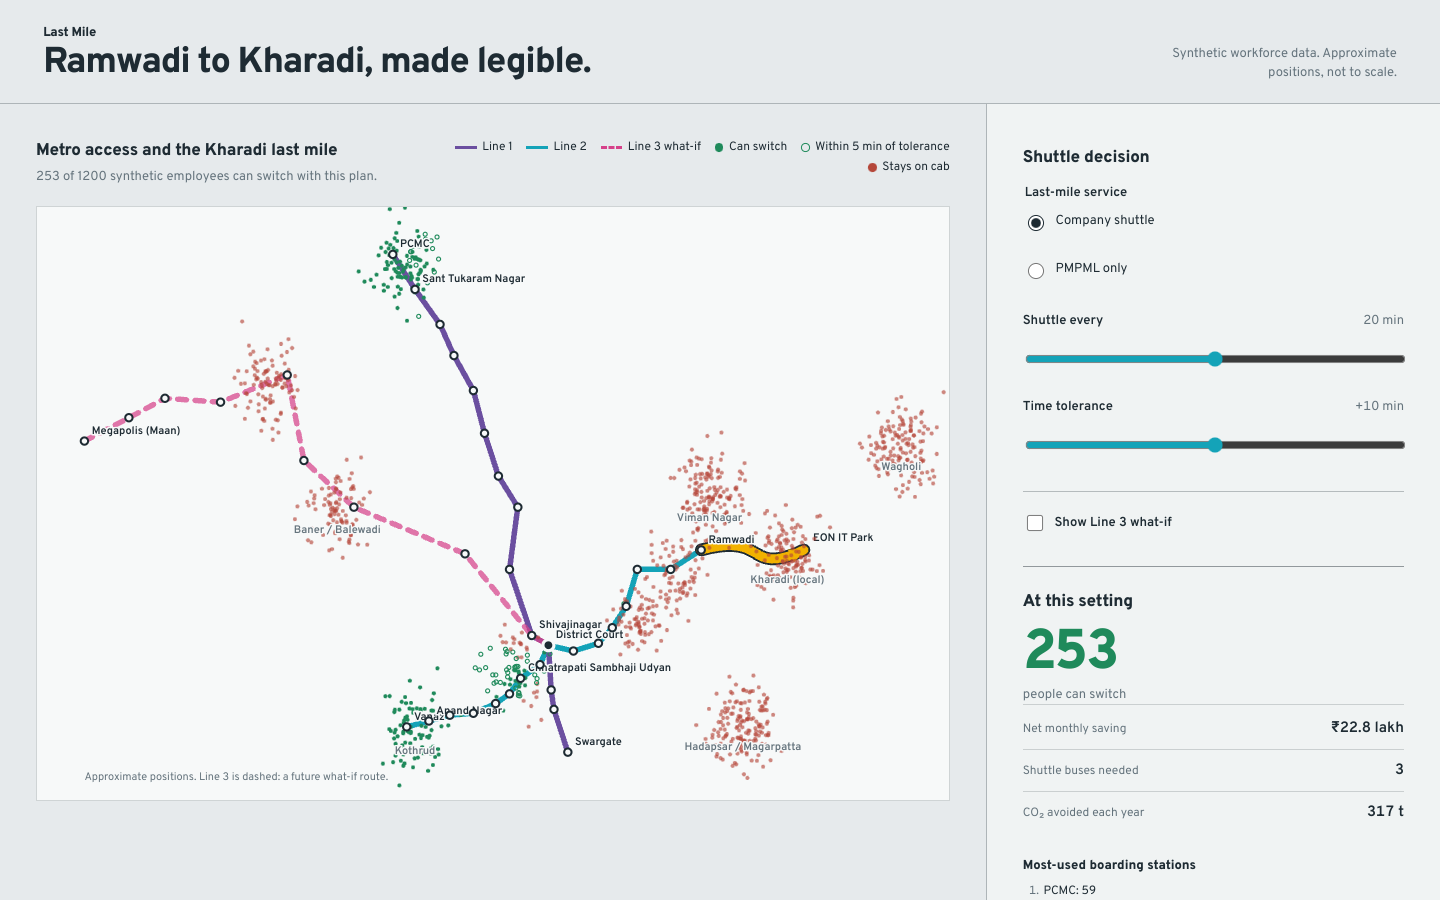
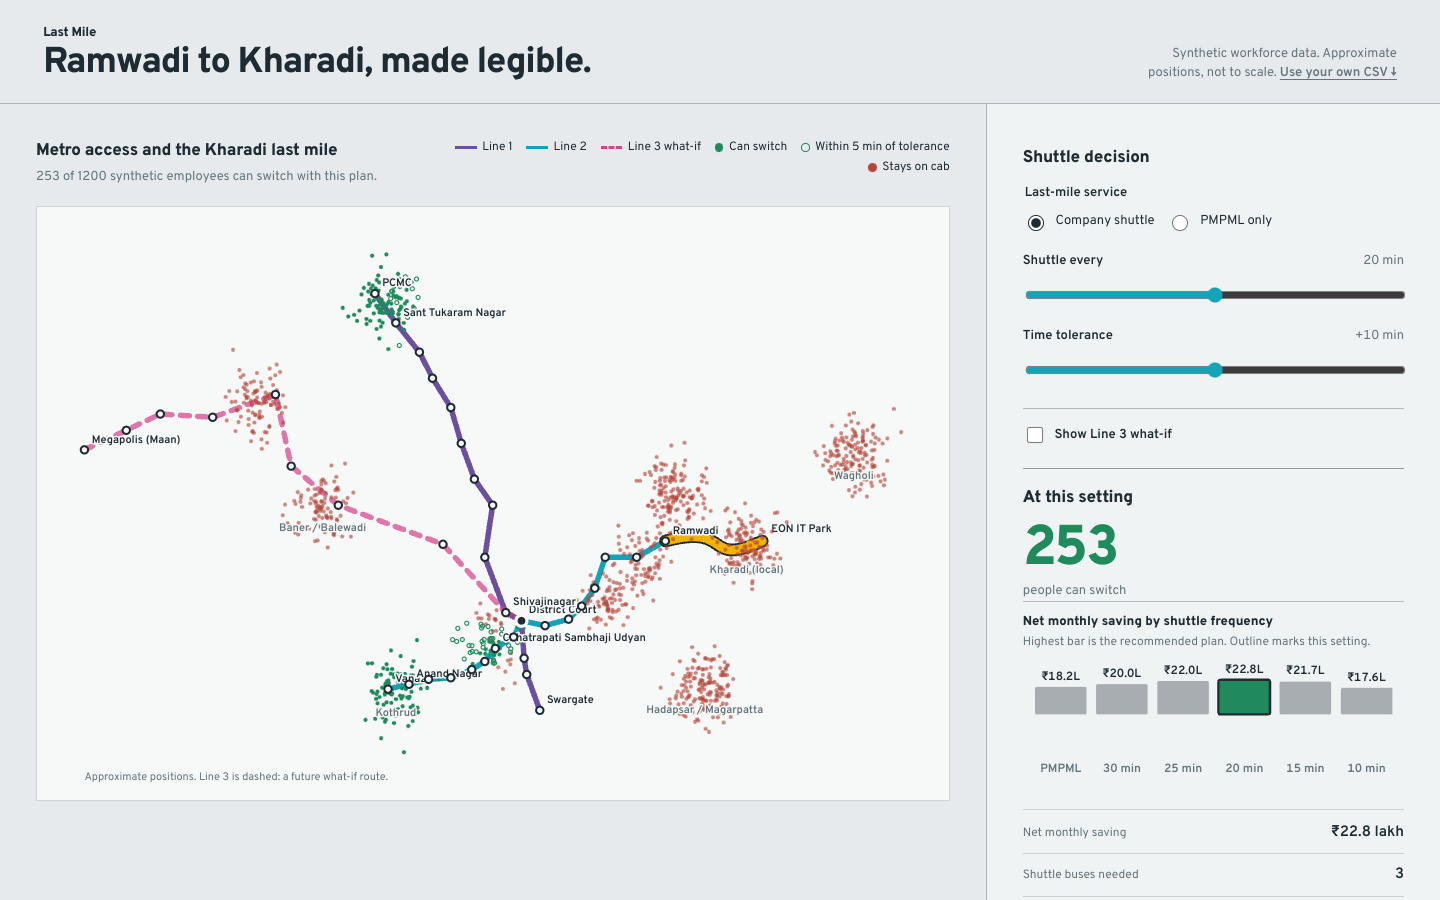
Evaluation-ready: README for evaluators, npm scripts, MIT licence, fresh screenshot; build-process files moved to docs/process
No application code changed.

Claude-Session: https://claude.ai/code/session_01H1RB84YU63TM1p3fbd7dL7

diff --git a/README.md b/README.md
@@ -1,23 +1,125 @@
 # Last Mile
 
-Should your company run a shuttle from Ramwadi Metro to Kharadi — and who would actually switch from cabs?
+**Should a Kharadi IT company run a shuttle from Ramwadi Metro, how often, and who would actually leave their cab?**
 
-A planning tool for transport teams in Pune. Built with Codex for the DevDay Exchange Community Metro Hackathon,
-Pune, 24 Oct 2026 — started the morning of the event (with the host's go-ahead) and refined on the moving Metro sprint.
-Commit history shows the timeline.
+Last Mile is a planning tool for a company's transport team. It models every employee's door-to-door commute by cab and
+by Pune Metro + a last-mile shuttle, finds the shuttle frequency that saves the most, and writes the recommendation for finance.
+
+**Live:** https://apoorvgpt9.github.io/codex-devday-24Oct/ · **Track:** Urban Mobility ·
+**Built for:** DevDay Exchange Community Metro Hackathon, Pune, 24 Oct 2026, with OpenAI Codex
 
 ![Last Mile at the recommended 20-minute shuttle](docs/screenshot.png)
 
-**What it finds (synthetic 1,200-person company at EON IT Park):** the public PMPML feeder fills up at 150 riders;
-a company shuttle from Ramwadi every **20 minutes** is the optimum — 253 people off cabs, 3 buses, ₹22.8 lakh/month net,
-317 t CO₂/year. More frequent shuttles add riders but cost more than they save. When Line 3 opens end to end: 461 people.
+## The problem
 
-**Live:** https://apoorvgpt9.github.io/codex-devday-24Oct/
+Pune Metro ridership is below projections, and Maha Metro names the last mile as the reason: stations sit 3–6 km from
+where people work. Kharadi's IT parks are the clearest case. The nearest working station is Ramwadi, the public PMPML
+feeder runs about every 30 minutes, and the Metro extension toward Kharadi only began preparatory work in September 2026.
+Companies keep paying for door-to-door cabs because nobody can show them, employee by employee, who could switch.
 
-**Run it:** `python3 -m http.server 8000` → open http://localhost:8000. Works offline.
-**Test it:** `node --test tests/`
+## What it finds
 
-Data: stations and the PMPML feeder route are real (approximate positions). Employees, costs and speeds are synthetic
-assumptions, all listed in `data/assumptions.json` and on screen.
+For a synthetic 1,200-person company at EON IT Park:
 
-- Spec: `PLAN.md` · Agent rules: `AGENTS.md` · Design brief: `docs/design-brief.md` · Demo: `docs/demo-script.md`
+| Option | People who can switch | Buses | Net saving / month |
+|---|---|---|---|
+| PMPML feeder only | 150 (bus full at peak) | 0 | ₹18.2 lakh |
+| Company shuttle every 30 min | 200 | 2 | ₹20.0 lakh |
+| **Company shuttle every 20 min (recommended)** | **253** | **3** | **₹22.8 lakh** |
+| Company shuttle every 15 min | 271 | 4 | ₹21.7 lakh |
+| Company shuttle every 10 min | 284 | 6 | ₹17.6 lakh |
+| 15 min, if Line 3 (Hinjewadi) runs end to end | 461 | 5 | ₹48.3 lakh |
+
+- People who live near the Metro keep their cab (their ride is already short); long commuters from Kothrud and PCMC switch.
+- More frequent shuttles add riders but cost more than they save; the tool finds the 20-minute optimum itself.
+- The recommendation holds in 14 of 18 robustness tests (each uncertain input moved ±25%). The input that matters most
+  is peak-hour cab speed, so that is what to measure before contracting buses.
+
+## What you can do in the app
+
+| Capability | How |
+|---|---|
+| See who can switch | 1,200 employee dots on a Metro map, green = can switch, red = stays on cab |
+| Compare PMPML vs a company shuttle | **Shuttle decision → Company shuttle / PMPML only** |
+| Find the best frequency | Drag **Shuttle every** (10–30 min); the bar chart marks the recommended option |
+| Change what employees will accept | Drag **Time tolerance** (+0 to +20 min) |
+| Plan for Line 3 | Tick **Show Line 3 what-if** |
+| Get a finance memo | **Transport memo → Copy memo** |
+| Test how sure the answer is | **Run robustness test** |
+| Explain one person's verdict | Click any dot: cab vs Metro, leg by leg |
+| Use your own workforce | **Use your own CSV ↓** (`lat,lng[,shiftStart]`); read in the browser, never uploaded |
+| Check every number | **Model assumptions** table: value, source and confidence for all 25 inputs |
+
+## Run and test
+
+No install, no dependencies, no build step. Works offline.
+
+```bash
+npm start            # or: python3 -m http.server 8000  → open http://localhost:8000
+npm test             # 17 unit tests (node --test, Node 18+)
+npm run summary      # prints the headline numbers for each scenario
+```
+
+## How it works
+
+```
+data/*.json ──► src/main.js ──► src/model/ (pure, no DOM) ──► src/ui/ (SVG map, chart, memo, tables)
+                      ▲                                              │
+                      └───────────── control change ◄────────────────┘
+```
+
+For each employee the model (`src/model/commute.js`) compares:
+
+1. **Cab:** road distance (straight line × 1.35) at 16 km/h peak speed, ₹18/km, round trip.
+2. **Metro:** walk (≤1 km) or auto (≤5 km) to the nearest open station, ride to Ramwadi (2.2 min/stop, 6 min per line
+   change, `network.js` route search), then shuttle wait (half the headway) + 6.5 km ride.
+3. **Verdict:** can switch if Metro ≤ cab + tolerance. PMPML mode caps riders at the feeder's spare seats per shift.
+4. **Fleet and money:** buses = max(what the headway needs, what the busiest shift needs). Net saving = cab spend avoided
+   − bus contracts − reimbursed Metro, auto and PMPML fares.
+5. **Recommendation:** the option with the highest net saving across PMPML and 30/25/20/15/10-minute shuttles.
+6. **Robustness** (`sensitivity.js`): reruns step 5 with each low-confidence input at ×0.75 and ×1.25.
+
+Every rate, speed and cost lives in [`data/assumptions.json`](data/assumptions.json) with its source and confidence, and is
+shown in the app. Nothing is hard-coded in the calculation.
+
+## Data: what is real
+
+- **Real:** Pune Metro Lines 1 and 2 and the Line 3 stations (positions approximate, ±300 m); EON IT Park; the PMPML
+  Ramwadi feeder route.
+- **Synthetic, labelled as such everywhere:** the 1,200 employees (`scripts/gen-employees.mjs`, seeded), their home
+  clusters, and the cost and speed assumptions.
+- Line 3 is a toggle, not a default, because its full opening is unconfirmed.
+
+## Project structure
+
+```
+index.html            single page
+src/main.js           loads data, holds state, wires model to UI
+src/model/            commute.js, network.js, geo.js, sensitivity.js, workforce.js — pure functions
+src/ui/               map.js, controls.js, results.js, frequency-chart.js, memo.js, robustness.js, assumptions.js, workforce-import.js
+styles/app.css        design tokens, dark mode, reduced motion, 375 px layout
+data/                 stations, places, employees, assumptions, sample CSV
+assets/fonts/         Overpass and Mukta (Marathi), vendored — no external requests
+tests/                node:test unit tests
+scripts/              data generators and the summary script
+docs/                 design brief, demo script; docs/process/ holds the build plan, Codex prompts and review log
+```
+
+## How it was built
+
+Built with OpenAI Codex, orchestrated milestone by milestone: [`AGENTS.md`](AGENTS.md) holds the rules Codex followed
+(zero dependencies, offline, every number from the assumptions file, model separate from UI). The plan, the exact
+prompts and the per-milestone review log are in [`docs/process/`](docs/process/). Every milestone was rendered and
+clicked through in a headless browser before the next one started. Work began the morning of the event with the host's
+go-ahead and continued on the Metro sprint; the commit history shows the timeline.
+
+## Limits
+
+- Illustrative numbers until real inputs replace the low-confidence assumptions.
+- One office (EON IT Park) and one hub (Ramwadi).
+- No live traffic or timetable data, by design (offline, explainable).
+- The boarding station is the nearest one, not necessarily the fastest; this slightly under-counts switchers.
+
+## Licence
+
+MIT — see [LICENSE](LICENSE).

diff --git a/AGENTS.md b/AGENTS.md
@@ -1,13 +1,13 @@
 # AGENTS.md — rules for Codex in this repo
 
-Read this file, then `PLAN.md`, then `PRODUCT.md` and `docs/design-brief.md` before writing code.
+Read this file, then `docs/process/PLAN.md`, then `PRODUCT.md` and `docs/design-brief.md` before writing code.
 `DESIGN.md` does not exist yet by design — `docs/design-brief.md` is the visual source of truth until M5,
 when `/impeccable document` generates `DESIGN.md` from the built UI. Do not create `DESIGN.md` before M5.
 
 ## What we are building
 **Last Mile** — a planning tool for a company's transport/admin team in Pune. It shows which employees
 can realistically commute by Pune Metro + a company shuttle from Ramwadi station to Kharadi IT parks,
-how often that shuttle should run, and what it saves (₹ cab spend, CO₂, minutes). Full spec: `PLAN.md`.
+how often that shuttle should run, and what it saves (₹ cab spend, CO₂, minutes). Full spec: `docs/process/PLAN.md`.
 
 ## Hard constraints (non-negotiable)
 1. **Zero dependencies, zero build step.** Plain `index.html` + ES modules in `src/` + CSS in `styles/`.
@@ -25,16 +25,16 @@ how often that shuttle should run, and what it saves (₹ cab spend, CO₂, minu
    Do not install or invent a second design system. Do not use any pattern listed under "Do not" in the brief.
 
 ## Working rhythm
-- Work milestone by milestone in the order in `PLAN.md`. Do not start a milestone before the previous
+- Work milestone by milestone in the order in `docs/process/PLAN.md`. Do not start a milestone before the previous
   one's acceptance checks pass.
 - **Commit and push after every milestone** with message `M<n>: <what now works>`.
   If `git push` fails (no signal), keep working and push at the next opportunity — never block on it.
-- Append one line per milestone to `PROGRESS.md`: time, milestone, what was verified, known gaps.
-- If something in `PLAN.md` is ambiguous, pick the simplest option that keeps the demo working,
-  note the choice in `PROGRESS.md`, and continue. Do not stop to ask.
-- Never edit `PLAN.md`, `AGENTS.md`, `docs/` or `prompts/` — those are owned by the human/orchestrator.
+- Append one line per milestone to `docs/process/PROGRESS.md`: time, milestone, what was verified, known gaps.
+- If something in `docs/process/PLAN.md` is ambiguous, pick the simplest option that keeps the demo working,
+  note the choice in `docs/process/PROGRESS.md`, and continue. Do not stop to ask.
+- Never edit `docs/process/PLAN.md`, `AGENTS.md`, `docs/` or `docs/process/prompts/` — those are owned by the human/orchestrator.
 
 ## Definition of done for any milestone
 - `node --test tests/` passes.
 - Page loads from `http://localhost:8000` with no console errors and with network disabled.
-- The milestone's acceptance checks in `PLAN.md` are met.
+- The milestone's acceptance checks in `docs/process/PLAN.md` are met.

diff --git a/docs/process/PLAN.md b/docs/process/PLAN.md
@@ -92,13 +92,13 @@ Deterministic template, no AI call: 120–180 words addressed to "Finance", stat
 the 3 assumptions with lowest confidence, and the Line 3 note when the toggle is on. "Copy memo" button.
 
 ## 8. Milestones
-### On the train (12:00–1:15) — `/goal` from `prompts/01-train-goal.md`
+### On the train (12:00–1:15) — `/goal` from `docs/process/prompts/01-train-goal.md`
 - **M1 Data + model (≈25 min):** data files, generator, all of §5, tests green. No UI yet beyond a placeholder.
 - **M2 Map (≈30 min):** §6 map renders all three lines, stations, 1,200 dots coloured by default verdict, shuttle loop.
 - **M3 Controls + results (≈20 min):** sliders/toggles recompute dots and results panel live.
 
-### At the auditorium (3:00–4:30) — `prompts/02-auditorium-goal.md`, then `prompts/03-polish.md`
-- **M4 Memo + assumptions table + Line 3 what-if story** (≈30 min) — include `recommendHeadway` from docs/review-1.md SHOULD
+### At the auditorium (3:00–4:30) — `docs/process/prompts/02-auditorium-goal.md`, then `docs/process/prompts/03-polish.md`
+- **M4 Memo + assumptions table + Line 3 what-if story** (≈30 min) — include `recommendHeadway` from docs/process/reviews/review-1.md SHOULD
 - **M5 Design pass:** `/impeccable critique` → `/impeccable polish` → make-interfaces-feel-better review (≈30 min)
 - **M6 Ship (≈20 min):** README with screenshot, GitHub Pages deploy, `docs/demo-script.md` rehearsal. Submit by 4:25.
 

diff --git a/PRODUCT.md b/PRODUCT.md
@@ -38,7 +38,7 @@ The product name is Last Mile. Its voice is plain, specific, and finance-friendl
 
 ## Evidence on Hand
 
-- Product specification and acceptance criteria: `PLAN.md`.
+- Product specification and acceptance criteria: `docs/process/PLAN.md`.
 - Binding visual and copy constraints: `docs/design-brief.md`.
 - Demo narrative: `docs/demo-script.md`.
 - Reference stations, places, and model assumptions: `docs/reference/`.

diff --git a/docs/process/reviews/review-2.md b/docs/process/reviews/review-2.md
@@ -1,6 +1,6 @@
 # Review 2 — M2 + M3 (commits 1b7d4a2, c233790)
 
-Rendered in headless Chromium by the orchestrator (screenshots in `docs/review-assets/`).
+Rendered in headless Chromium by the orchestrator (screenshots in `review-assets/`).
 
 ## Fixed by orchestrator
 - **Page crashed on load — nothing rendered.** `map.js`: `group.append(title).textContent = …` — `append()` returns
